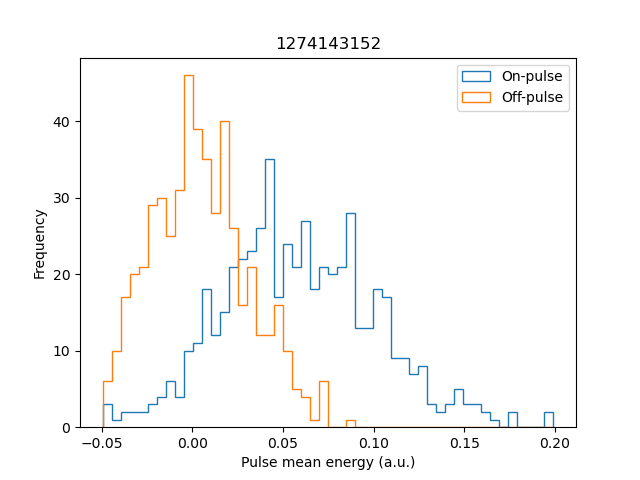
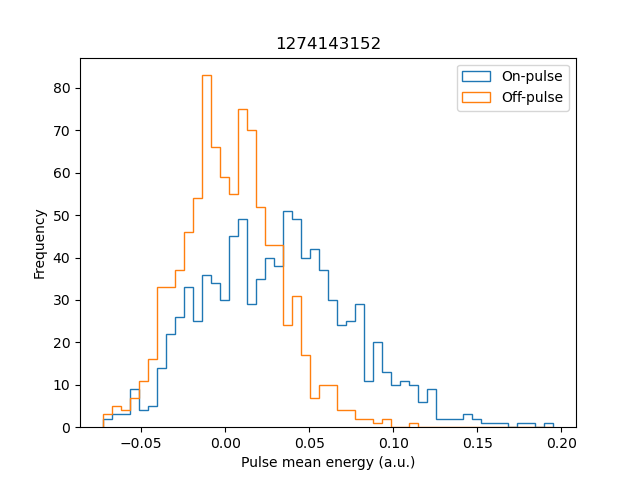
Fixed the pulse energy histogram of 1274143152 so that it includes all pulses (and not just the first half of the observation, where the burst sequences are)

diff --git a/paper/main.tex b/paper/main.tex
@@ -495,7 +495,7 @@ Despite this}, the uncertainty in our estimate of the nulling fraction will stil
     \includegraphics[width=0.32\textwidth]{1275172216_nullhist.png}
     \includegraphics[width=0.32\textwidth]{1275178816_nullhist.png}
     \includegraphics[width=0.32\textwidth]{1283104232_nullhist.png}
-    \caption{The pulse energy histograms for each of the six observations, for matched-size on- and off-pulse regions of the pulse stacks. The ObsIDs are given above each plot.}
+    \caption{{\bf The pulse energy histograms for each of the six observations, for matched-size on- and off-pulse regions of the pulse stacks. The ObsIDs are given above each plot. The on-pulse histograms include all pulses, regardless of whether they were classified as nulls by the method described in the text.}}
     \label{fig:nullhist}
 \end{figure*}
 
